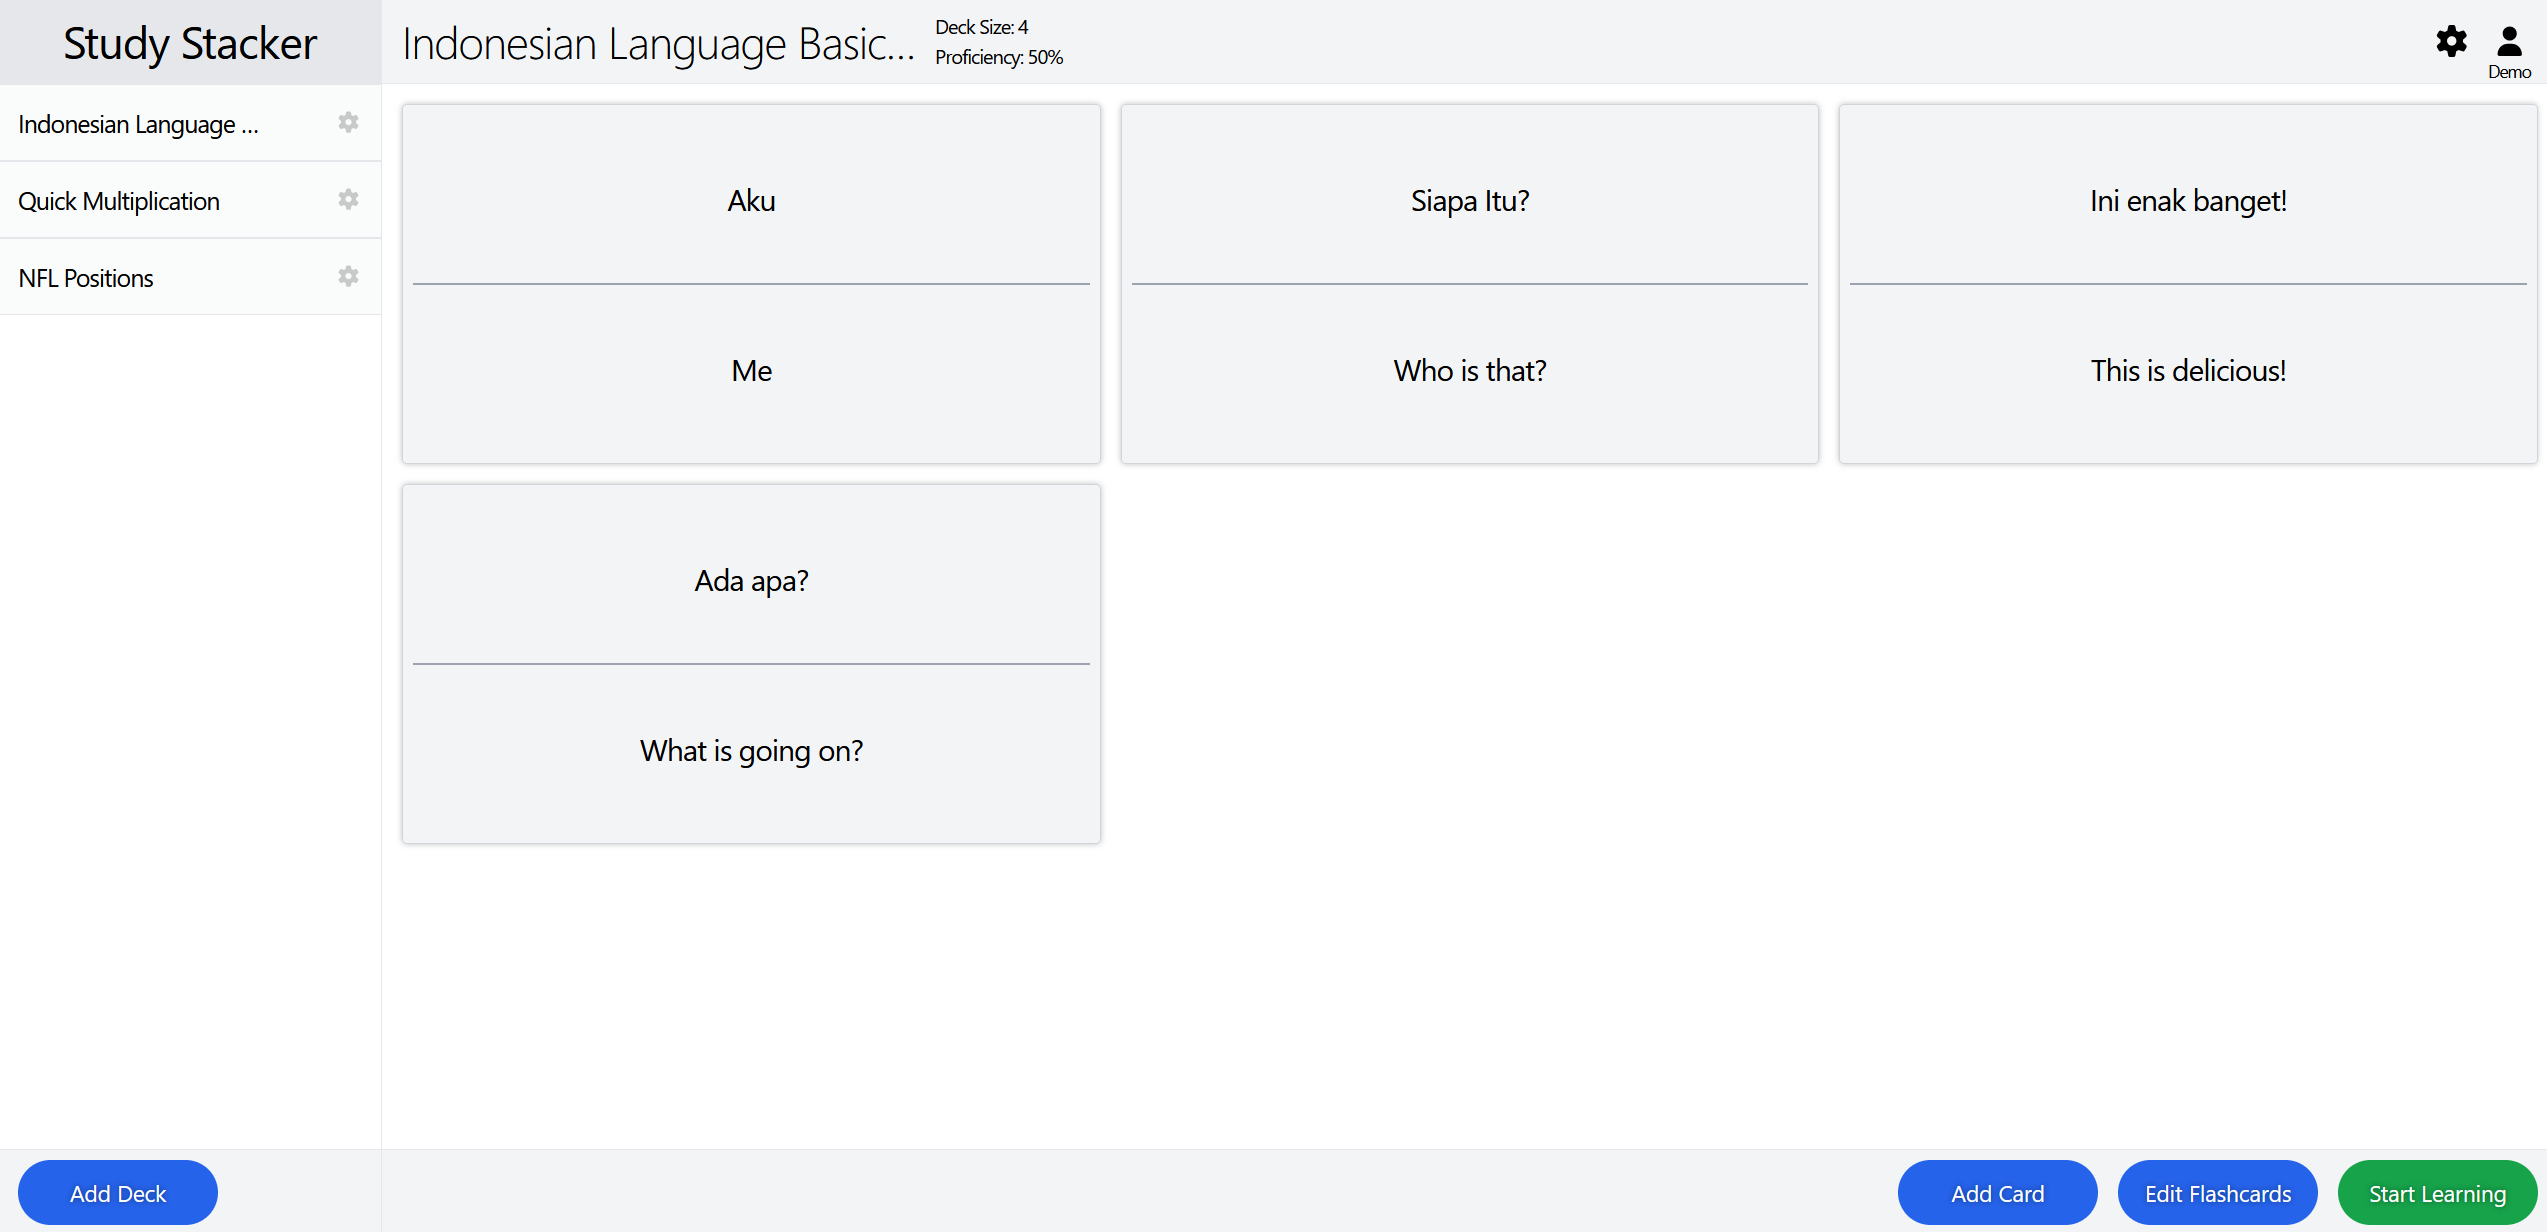
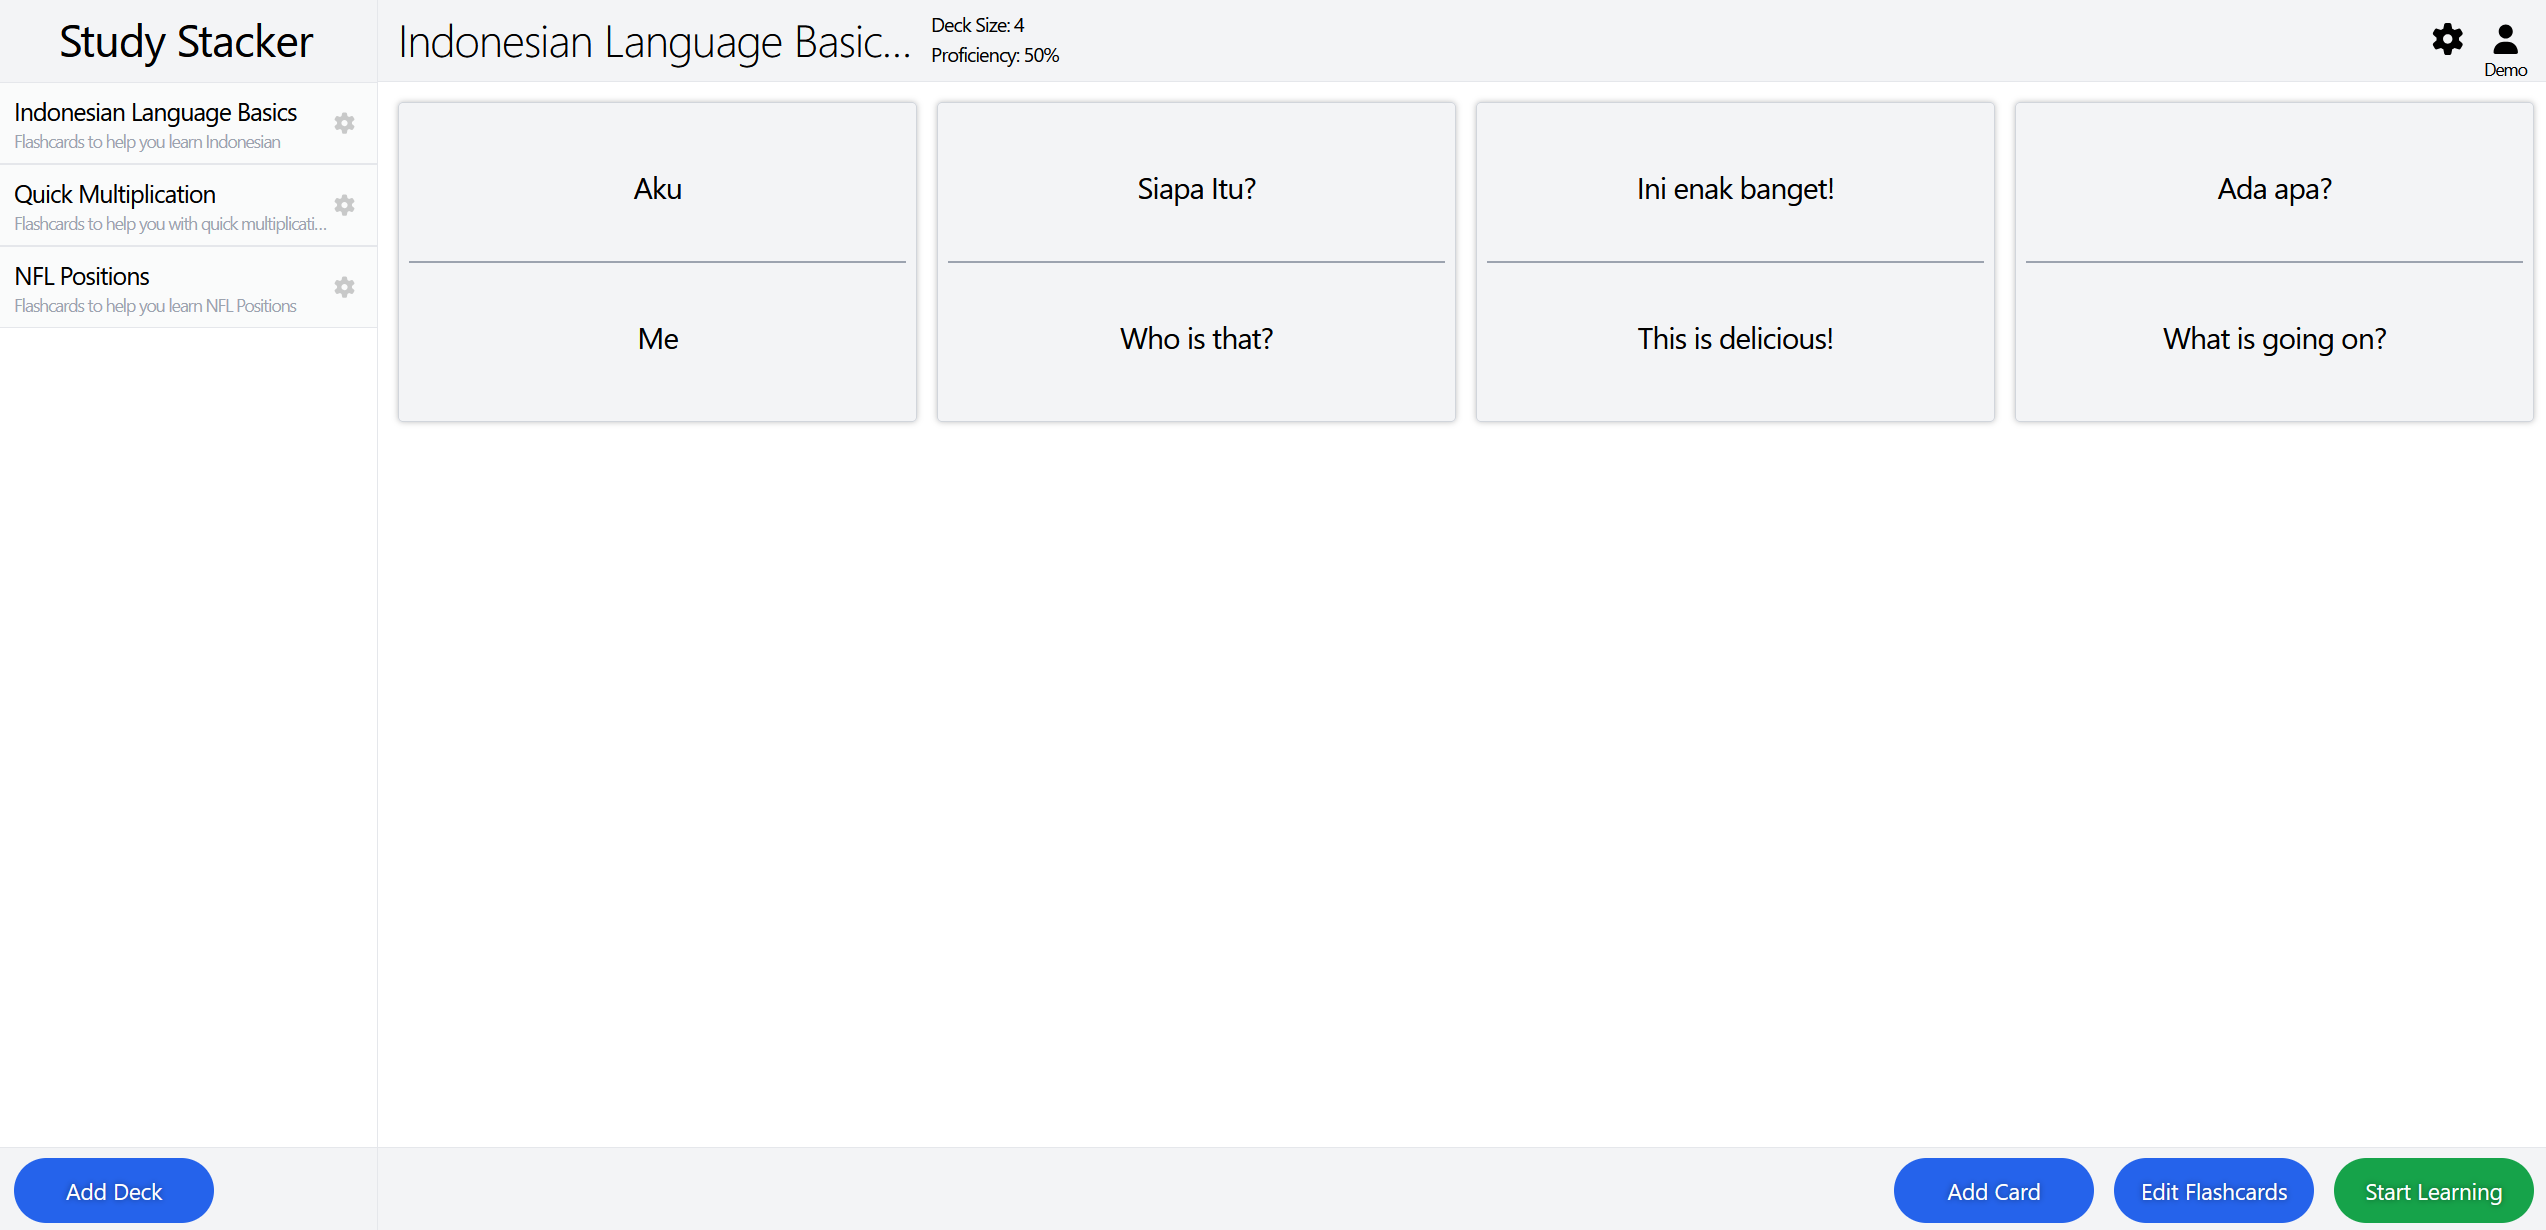
Content: Updated Study Stacker image and removed disclaimer since updating app with repsonsiveness

diff --git a/src/App.js b/src/App.js
@@ -345,9 +345,6 @@ function App() {
 					</div>
 				</div>
 			</div>
-			<div className="Footer" data-aos="fade-up">
-				<p className="ContentWrapper FooterContent"><b>Please Note:</b> This Portfolio is best viewed in Full Screen on a Desktop Computer</p>
-			</div>
 			<Analytics />
 		</div>
 	);
